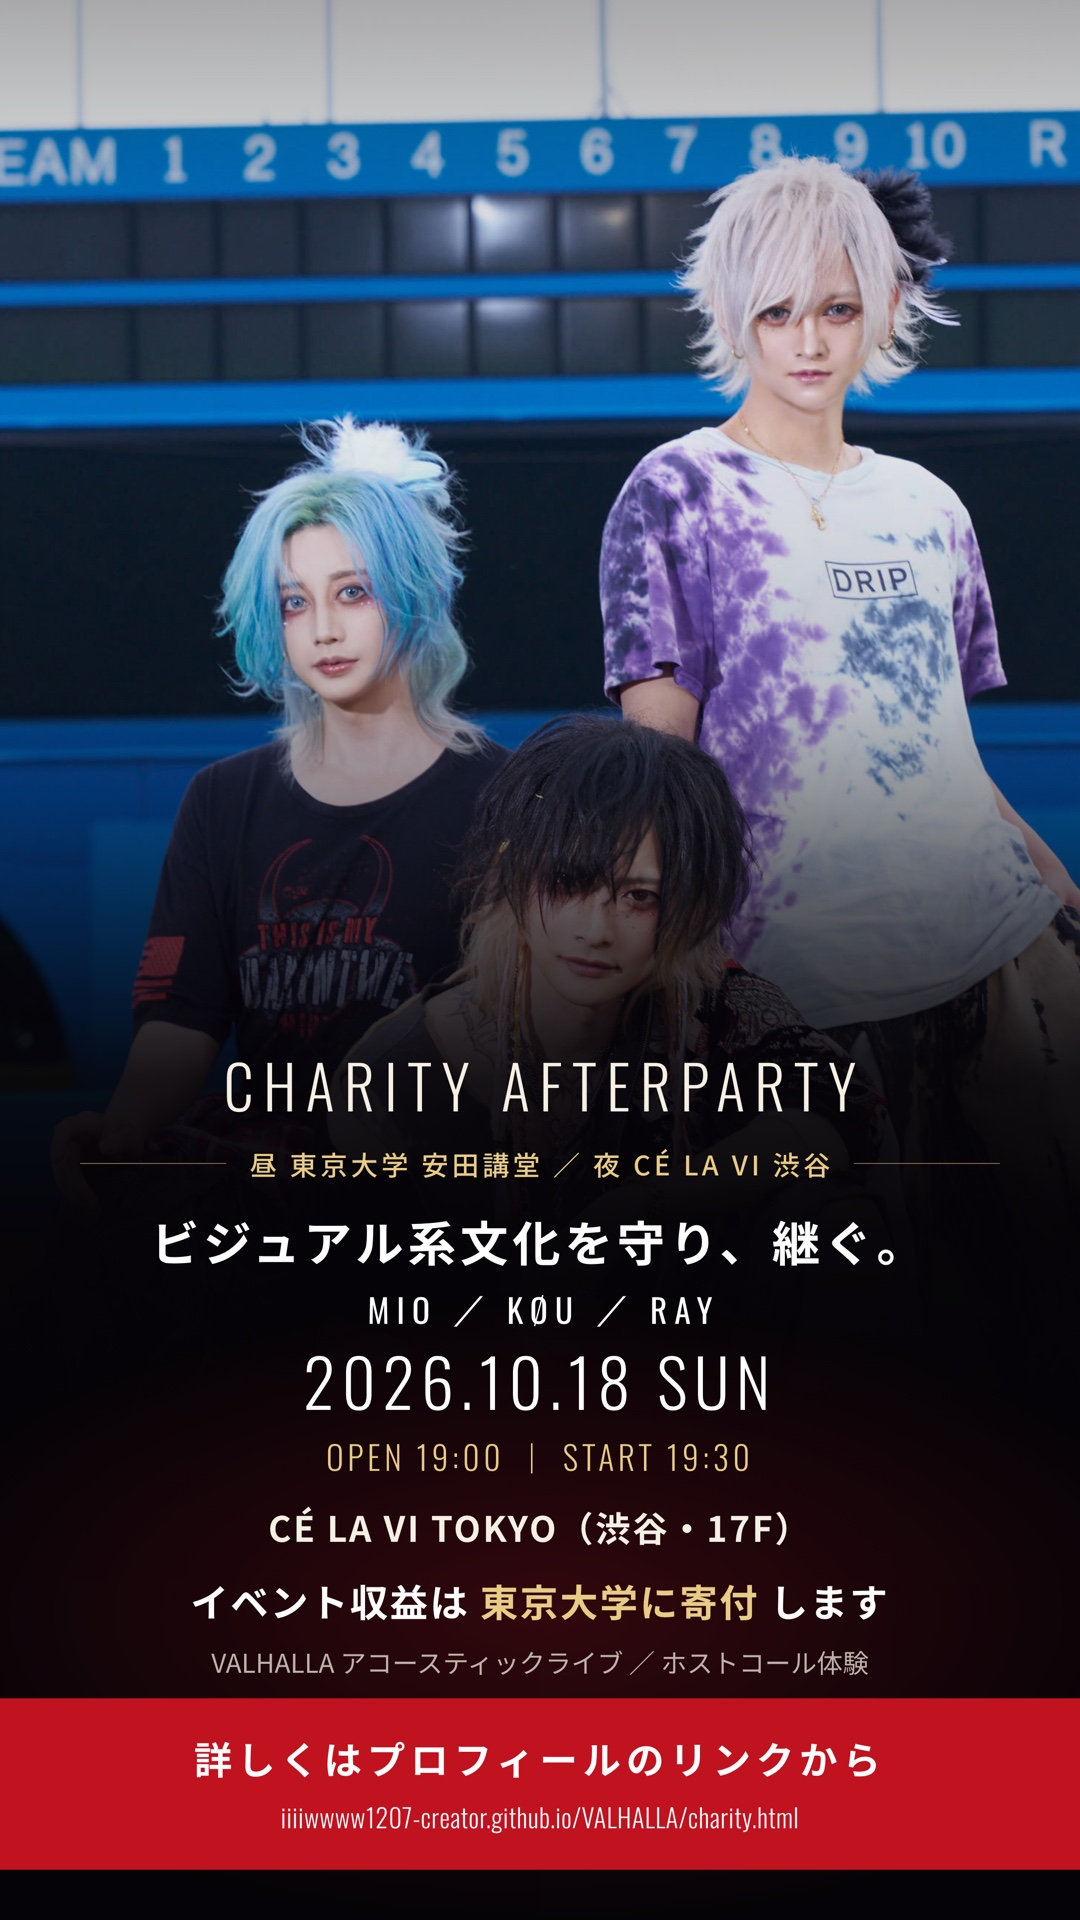
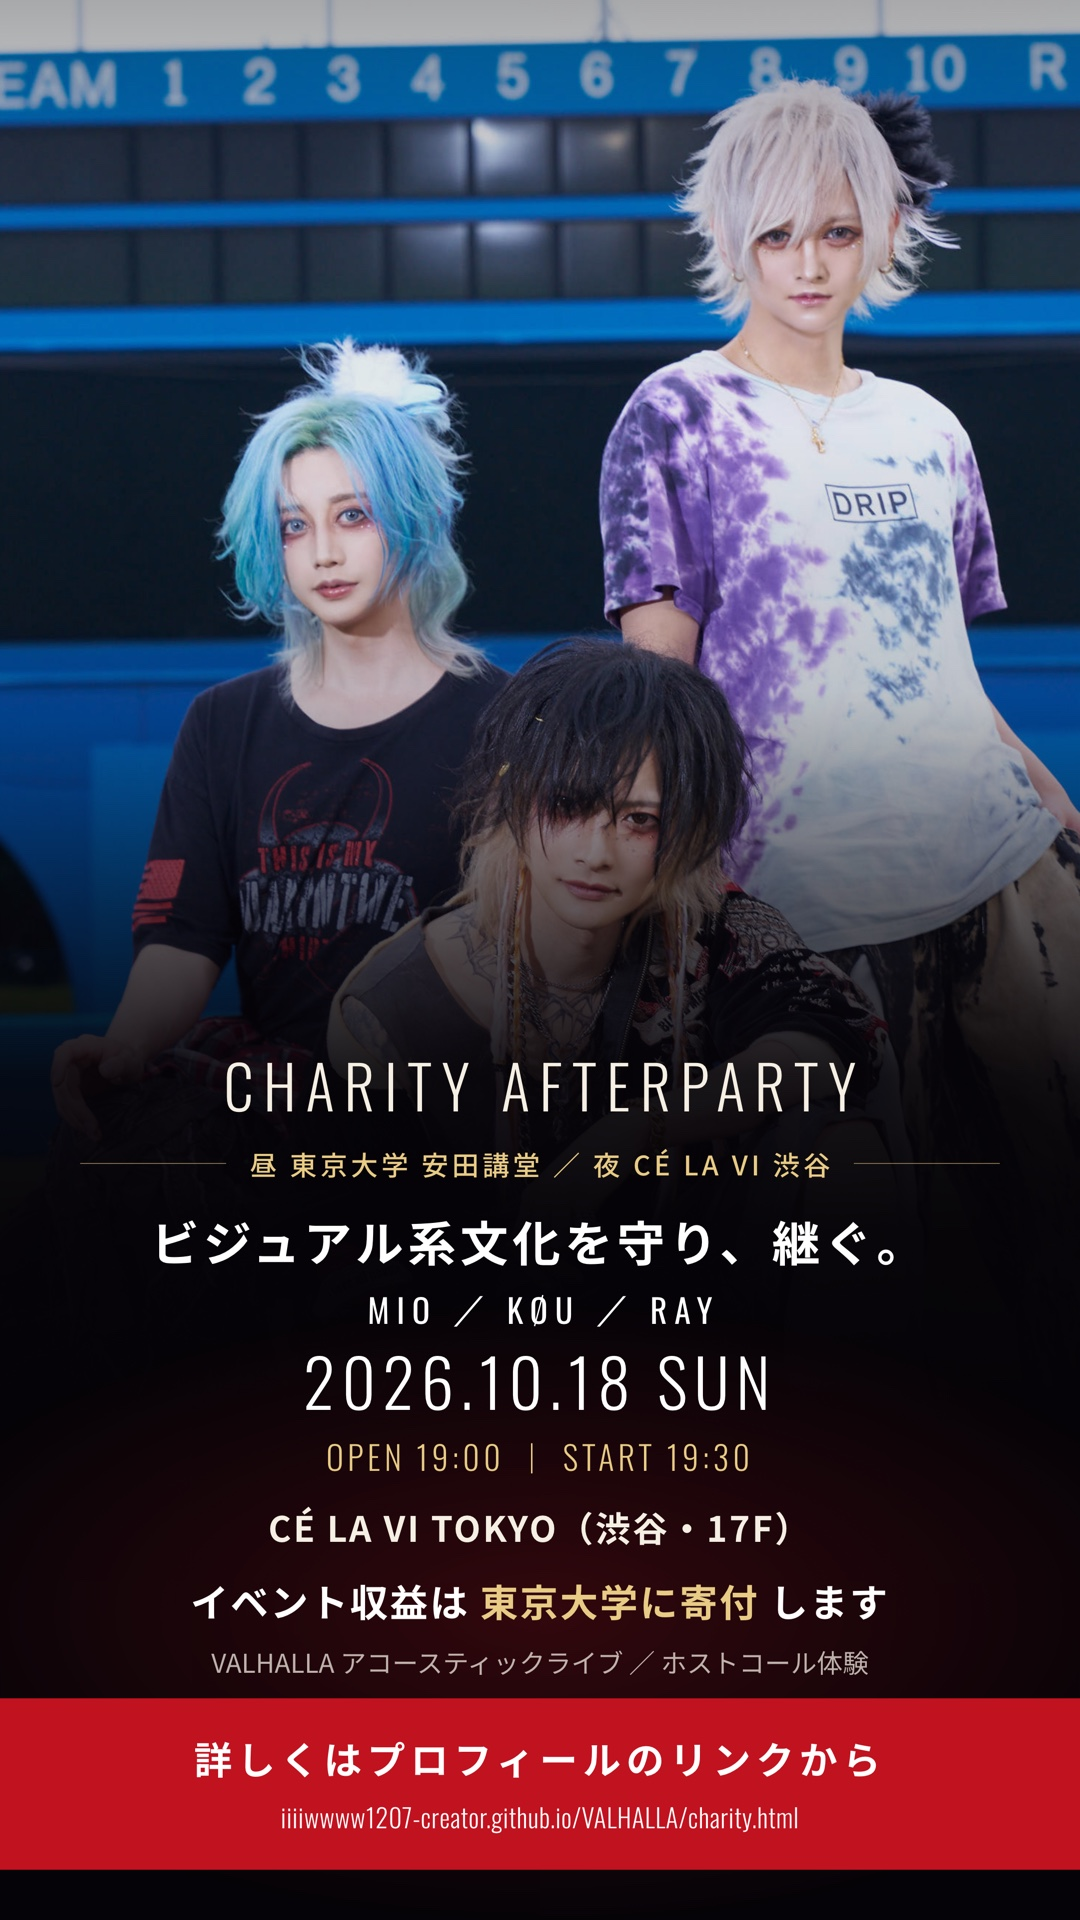
SNS1枚目：スコアボード上端が紙面スレスレになるまで写真を上げた
kazuma 指示「もう少し上に。野球のボードがスレスレになるくらいなら
RAY の頭は見切れないはず。そうすれば KØU の顔がもう少し真ん中に来る」。

指摘どおりで、空を完全に切ってもRAYの頭には余裕があった。
結果、手前のKØUの顔が中央寄りに上がり、3人の重なりが締まった。

- feed45 : center 101% → 109%
- square : center 86%  → 89%
- story  : center 87%  → 97%

3サイズとも「上に空が残らない／RAYの頭が切れない／KØUの顔が文字に掛からない」
ことを描画で確認済み。docs に構図の基準として記録した。

diff --git a/flyer-sns.html b/flyer-sns.html
@@ -54,9 +54,9 @@
   .board.feed45 .bg,.board.square .bg,.board.story .bg{
       background-image:url('assets/charity/group_field.jpg');
       background-size:cover;opacity:1;filter:none}
-  .board.feed45 .bg{background-size:113% auto;background-position:center 101%}
-  .board.square .bg{background-position:center 86%}
-  .board.story  .bg{background-size:166% auto;background-position:center 87%}
+  .board.feed45 .bg{background-size:113% auto;background-position:center 109%}
+  .board.square .bg{background-position:center 89%}
+  .board.story  .bg{background-size:166% auto;background-position:center 97%}
   .board.feed45 .veil,.board.square .veil,.board.story .veil{
       background:linear-gradient(180deg,
         rgba(5,3,7,.34) 0%, rgba(5,3,7,.10) 12%, rgba(5,3,7,.08) 22%, rgba(5,3,7,.22) 36%,

diff --git a/docs/celavi-afterparty.md b/docs/celavi-afterparty.md
@@ -92,7 +92,9 @@
         **ロゴに合わせて構図を歪めない**こと（kazuma 指摘）。1枚目には VALHALLA ロゴを置かない（手前の KØU の顔に掛かるため）。
         ロゴは2枚目のヘッダーで担保する。写真は
 「上の空を詰めて、3人の顔が見える範囲の中央に来る」ことを優先する。
-        現在値: feed45=113%幅/101% ・ square=cover/86% ・ story=166%幅/87%
+        構図の基準（kazuma 指示）: **スコアボードの上端が紙面の上端スレスレ**になるまで詰める。
+        そこまで上げても奥の RAY の頭は切れず、手前の KØU の顔が中央寄りに上がる。
+        現在値: feed45=113%幅/109% ・ square=cover/89% ・ story=166%幅/97%
       - 2枚目＝席の中身と価格の理由。ここで初めて金額を出す
       - 2枚目の背景は安田講堂の**内観を「引き」で全景**（寄せると何の建物か分からなくなるため）
       - ※ A4版は単票で完結させる必要があるので、A4には金額を残している
